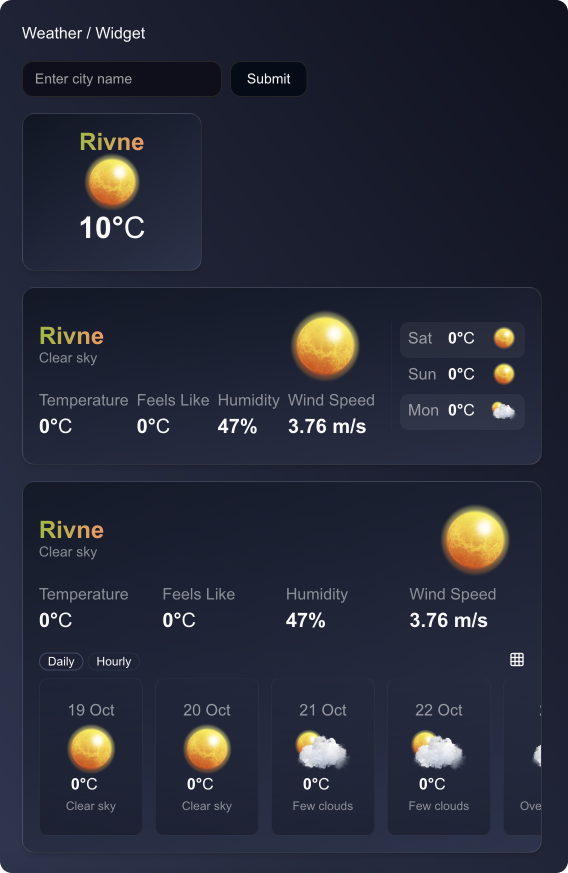
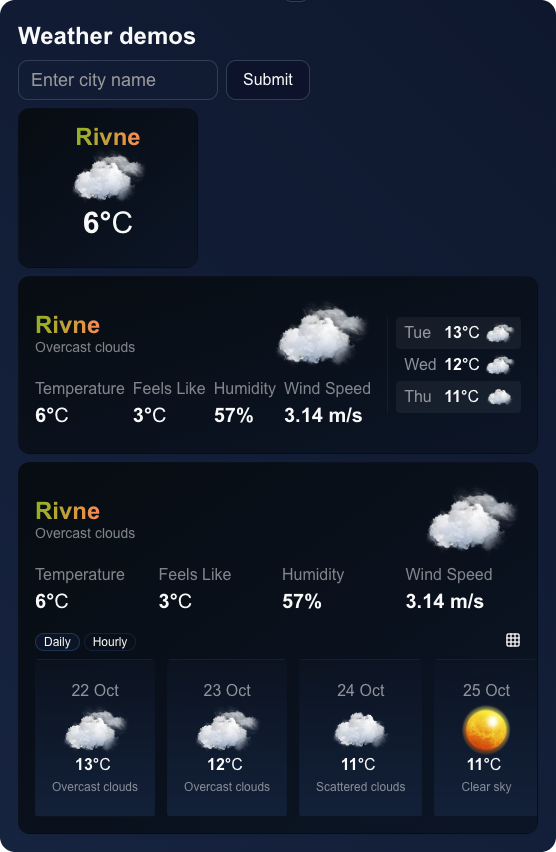
fix ssr using several layouts; update readme; refactor

diff --git a/app/layout.tsx b/app/layout.tsx
@@ -1,13 +1,10 @@
 import localFont from 'next/font/local';
 
-import { Providers } from '@/components/context/providers';
+import { ThemeProvider } from '@/components/context/ThemeProvider';
 import { Footer } from '@/components/layout/Footer';
 import { Header } from '@/components/layout/Header';
 import { API_KEY } from '@/config/const';
-import { fetchWeatherDataByCoordinates } from '@/lib/api/openWeatherMap';
-import { readLocationFromCookies } from '@/lib/helpers/readLocationFromCookies';
 
-import type { TWeatherContextDefaults } from '@/types/widget';
 import type { Metadata } from 'next';
 
 import '../styles/globals.css';
@@ -32,27 +29,25 @@ export const metadata: Metadata = {
   ],
 };
 
+/**
+ * This default root layout component includes
+ * the main site layout components...
+ * @param children
+ * @constructor
+ */
 export default async function RootLayout({ children }: Readonly<{ children: React.ReactNode }>) {
   if (!API_KEY) {
     return <div className="text-center">API key not provided</div>;
   }
 
-  // Get location info from cookies -> fetch weather data -> pass to widget context as defaults
-  const location = await readLocationFromCookies();
-  let defaults: TWeatherContextDefaults = null;
-  if (location) {
-    const weatherData = await fetchWeatherDataByCoordinates(location.coordinates);
-    defaults = { location, weatherData };
-  }
-
   return (
     <html lang="en" suppressHydrationWarning>
       <body className={`${geistSans.variable} ${geistMono.variable} min-h-screen antialiased`}>
-        <Providers defaultWeatherData={defaults}>
+        <ThemeProvider attribute="class" defaultTheme="system" enableSystem disableTransitionOnChange>
           <Header />
           <main className="container space-y-2">{children}</main>
-        </Providers>
-        <Footer />
+          <Footer />
+        </ThemeProvider>
       </body>
     </html>
   );

diff --git a/app/[cityName]/layout.tsx b/app/[cityName]/layout.tsx
@@ -1,0 +1,41 @@
+import { notFound } from 'next/navigation';
+
+import { WeatherWidgetProvider } from '@/components/context/WeatherWidgetContext';
+import { fetchWeatherDataByCoordinates, getCoordinatesByCityName } from '@/lib/api/openWeatherMap';
+import { LocationInfoSchema } from '@/lib/zod/locationInfoSchema';
+
+import type { ICoordinates } from '@/types/openWeatherMap';
+import type { TWeatherContextDefaults, ILocationInfo } from '@/types/widget';
+
+interface Props {
+  params: { cityName: string };
+  children: React.ReactNode;
+}
+
+/**
+ * This layout component includes the WeatherWidgetProvider
+ * and fetches location and weather data by city name.
+ * @param children
+ * @param params - city name from route params
+ * @constructor
+ */
+export default async function CityWidgetLayout({ children, params }: Props) {
+  const cityName = params.cityName;
+  let defaults: TWeatherContextDefaults = null;
+
+  try {
+    const coordinates: ICoordinates = await getCoordinatesByCityName(cityName);
+    const location: ILocationInfo = { cityName, coordinates };
+
+    // Fetch weather data if location info is valid
+    if (LocationInfoSchema.safeParse(location).success) {
+      const weatherData = await fetchWeatherDataByCoordinates(location.coordinates);
+      defaults = { location, weatherData };
+    }
+  } catch (e) {
+    console.error(e);
+    notFound();
+  }
+
+  return <WeatherWidgetProvider defaults={defaults}>{children}</WeatherWidgetProvider>;
+}

diff --git a/app/page.tsx b/app/page.tsx
@@ -1,13 +1,22 @@
+import { WeatherWidgetProvider } from '@/components/context/WeatherWidgetContext';
 import { WeatherForm } from '@/components/form/WeatherForm';
 import { Heading } from '@/components/ui/Heading';
-import { WeatherDemos } from '@/components/WeatherDemos';
+import { SimpleWeatherWidget } from '@/components/widget/SimpleWeatherWidget';
 
 export default async function Home() {
   return (
-    <>
-      <Heading>Weather / Widget</Heading>
+    <WeatherWidgetProvider>
+      <Heading>Summary info</Heading>
       <WeatherForm />
-      <WeatherDemos />
-    </>
+      <p className="max-w-lg animate-show delay-150">
+        This is a Next.js] project demonstrating the use of the OpenWeatherMap API to display the current weather in a city. Weather widget
+        adaptively changes its appearance based on the parent container&#39;s width.
+      </p>
+      <p className="max-w-lg animate-show delay-200">
+        This page is a simple example of how to use the WeatherWidgetProvider context to provide weather data to the SimpleWeatherWidget
+        component.
+      </p>
+      <SimpleWeatherWidget />
+    </WeatherWidgetProvider>
   );
 }

diff --git a/app/(demo)/layout.tsx b/app/(demo)/layout.tsx
@@ -1,0 +1,25 @@
+import { WeatherWidgetProvider } from '@/components/context/WeatherWidgetContext';
+import { fetchWeatherDataByCoordinates } from '@/lib/api/openWeatherMap';
+import { readLocationFromCookies } from '@/lib/helpers/readLocationFromCookies';
+
+import type { TWeatherContextDefaults } from '@/types/widget';
+
+/**
+ * This layout component includes the WeatherWidgetProvider
+ * and fetches location and weather data from cookies.
+ * @param children
+ * @constructor
+ */
+export default async function DemoWidgetLayout({ children }: Readonly<{ children: React.ReactNode }>) {
+  // Get location info from cookies -> fetch weather data -> pass to widget context as defaults
+  const location = await readLocationFromCookies();
+
+  let defaultsFromCookies: TWeatherContextDefaults = null;
+
+  if (location) {
+    const weatherData = await fetchWeatherDataByCoordinates(location.coordinates);
+    defaultsFromCookies = { location, weatherData };
+  }
+
+  return <WeatherWidgetProvider defaults={defaultsFromCookies}>{children}</WeatherWidgetProvider>;
+}

diff --git a/components/layout/Header.tsx b/components/layout/Header.tsx
@@ -1,19 +1,19 @@
 import dynamic from 'next/dynamic';
 
 import { NavLink } from '@/components/ui/NavLink';
+import { site } from '@/config/const';
 
-const ToggleTheme = dynamic(() => import('@/components/ToggleTheme'), { ssr: false });
+const ToggleTheme = dynamic(() => import('@/components/ui/ToggleTheme'), { ssr: false });
 
 export const Header: RC = () => (
   <header className="container py-4 min-h-[62px]">
-    <nav>
-      <ul className="flex gap-3 text-lg">
-        <li>
-          <NavLink href="/">List</NavLink>
-        </li>
-        <li>
-          <NavLink href="/dnd">Drag&Drop</NavLink>
-        </li>
+    <nav className="max-w-fit">
+      <ul className="flex gap-3 text-lg [&_li:not(:last-child)::after]:content-['/'] [&_li::after]:pl-3 [&_li::after]:opacity-10">
+        {site.links.map((link, index) => (
+          <li key={index}>
+            <NavLink href={link.href}>{link.label}</NavLink>
+          </li>
+        ))}
         <li>
           <ToggleTheme />
         </li>

diff --git a/app/[cityName]/page.tsx b/app/[cityName]/page.tsx
@@ -1,7 +1,6 @@
 import { WeatherForm } from '@/components/form/WeatherForm';
 import { Heading } from '@/components/ui/Heading';
-import { SimpleCard } from '@/components/ui/SimpleCard';
-import { CurrentForecast } from '@/components/widget/CurrentForecast';
+import { SimpleWeatherWidget } from '@/components/widget/SimpleWeatherWidget';
 import { upperFirst } from '@/lib/utils/upperFirst';
 
 export async function generateMetadata({ params }: { params: { cityName: string } }) {
@@ -19,9 +18,7 @@ export default async function WeatherByCity({ params }: Props) {
   return (
     <>
       <Heading>Weather in {upperFirst(params.cityName)}</Heading>
-      <SimpleCard className="w-full max-h-[380px] animate-show">
-        <CurrentForecast extended />
-      </SimpleCard>
+      <SimpleWeatherWidget />
       <WeatherForm defaultValue={params.cityName} />
     </>
   );

diff --git a/components/context/providers.tsx b/components/context/providers.tsx
@@ -1,7 +1,5 @@
 'use client';
 
-import { ThemeProvider } from '@/components/context/ThemeProvider';
-
 import { WeatherWidgetProvider } from './WeatherWidgetContext';
 
 import type { TWeatherContextDefaults } from '@/types/widget';
@@ -20,7 +18,5 @@ interface Props {
  * @constructor
  */
 export const Providers: FC<Props> = ({ children, defaultWeatherData }) => (
-  <ThemeProvider attribute="class" defaultTheme="system" enableSystem disableTransitionOnChange>
-    <WeatherWidgetProvider defaults={defaultWeatherData}>{children}</WeatherWidgetProvider>
-  </ThemeProvider>
+  <WeatherWidgetProvider defaults={defaultWeatherData}>{children}</WeatherWidgetProvider>
 );

diff --git a/components/DraggableWidgetDemo.tsx b/components/DraggableWidgetDemo.tsx
@@ -3,9 +3,9 @@
 import { Lock, Unlock } from 'lucide-react';
 import React, { useState } from 'react';
 
-import { DraggableWeatherWidget } from '@/components/DraggableWeatherWidget';
 import { type DropZoneSize, WidgetsDropZone } from '@/components/dragndrop/WidgetsDropZone';
 import { Button } from '@/components/ui/Button';
+import { DraggableWeatherWidget } from '@/components/widget/DraggableWeatherWidget';
 
 /**
  * Draggable widget demo view

diff --git a/config/const.ts b/config/const.ts
@@ -3,3 +3,11 @@ export const API_KEY = process.env.API_KEY || '';
 
 export const OPEN_WEATHER_MAP_API_URL = 'https://api.openweathermap.org';
 export const LOCATION_INFO_STORE_KEY = 'weatherWidget';
+
+export const site = {
+  links: [
+    { href: '/', label: 'Info' },
+    { href: '/demos', label: 'Demos' },
+    { href: '/dnd', label: 'Drag&Drop' },
+  ],
+};

diff --git a/app/(demo)/demos/page.tsx b/app/(demo)/demos/page.tsx
@@ -1,0 +1,13 @@
+import { WeatherForm } from '@/components/form/WeatherForm';
+import { Heading } from '@/components/ui/Heading';
+import { WeatherDemos } from '@/components/WeatherDemos';
+
+export default async function Demo() {
+  return (
+    <>
+      <Heading>Weather demos</Heading>
+      <WeatherForm />
+      <WeatherDemos />
+    </>
+  );
+}

diff --git a/components/widget/SimpleWeatherWidget.tsx b/components/widget/SimpleWeatherWidget.tsx
@@ -1,0 +1,10 @@
+import { SimpleCard } from '@/components/ui/SimpleCard';
+import { CurrentForecast } from '@/components/widget/CurrentForecast';
+
+interface Props {}
+
+export const SimpleWeatherWidget: FC<Props> = () => (
+  <SimpleCard className="w-full max-h-[380px] animate-show">
+    <CurrentForecast extended />
+  </SimpleCard>
+);

diff --git a/lib/utils/upperFirst.ts b/lib/utils/upperFirst.ts
@@ -3,5 +3,5 @@
  * @param str
  */
 export const upperFirst = (str?: string | null): string => {
-  return str ? str.charAt(0).toUpperCase() + str.slice(1) : '';
+  return typeof str === 'string' && str && true ? str.charAt(0).toUpperCase() + str.slice(1) : '';
 };
